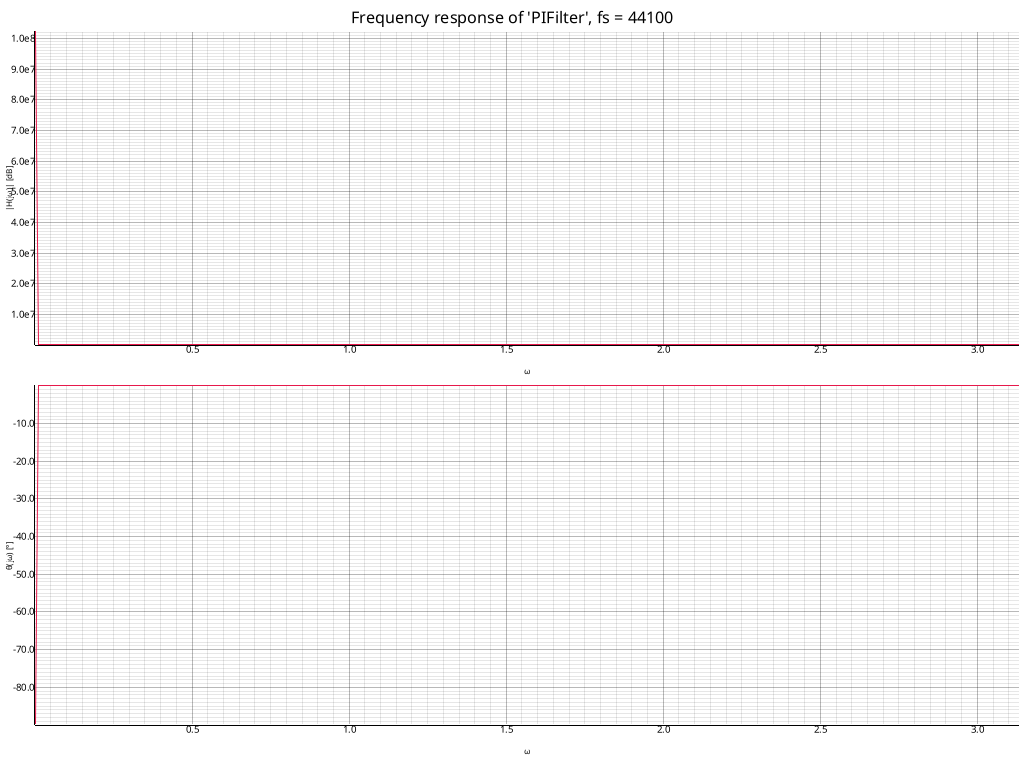
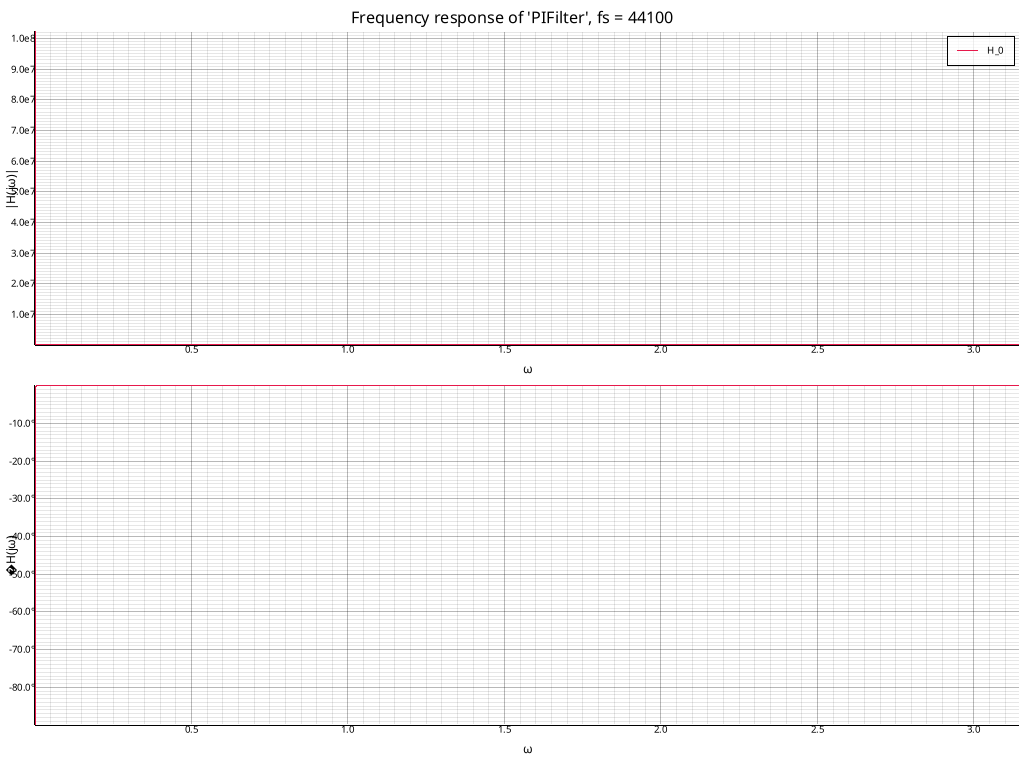
Fix second order butterworth

diff --git a/src/plot.rs b/src/plot.rs
@@ -8,8 +8,10 @@ use plotters::{chart::MeshStyle, coord::{ranged1d::{AsRangedCoord, DefaultFormat
 
 const PLOT_RES: (u32, u32) = (1024, 760);
 const PLOT_CAPTION_FONT: (&str, u32) = ("sans", 20);
+const AXIS_DESC_STYLE: (&str, u32) = ("sans", 15);
 const PLOT_MARGIN: u32 = 5;
 const PLOT_LABEL_AREA_SIZE: u32 = 30;
+const MAX_CURVE_COLOR_BRIGHTNESS: u16 = 225*2;
 
 fn isometric(mut pb: ProjectionMatrixBuilder) -> ProjectionMatrix
 {
@@ -93,6 +95,7 @@ pub fn plot_pz(
 pub fn plot_bode<'a, F, const M: usize>(
     plot_title: &str, plot_path: &'a str, legends: [&str; M],
     xy: impl IntoIterator<Item = (F, [Complex<F>; M])>,
+    decibel: bool
 ) -> Result<(), Box<dyn std::error::Error>>
 where
     F: Float + AddAssign + SubAssign + 'static,
@@ -103,12 +106,18 @@ where
             <Range<F> as AsRangedCoord>::Value
         )>
 {
-    fn db<F>(x: F) -> F
-    where
-        F: Float
-    {
-        F::from(20.0).unwrap()*(x).log10()
-    }
+    let twenty = F::from(20.0).unwrap();
+    let min_db = F::from(-40.0).unwrap();
+    let max_db = F::from(40.0).unwrap();
+    let min = F::from(1e1).unwrap().powf(min_db/twenty);
+    let max = F::from(1e1).unwrap().powf(max_db/twenty);
+    let db = |x: F| {
+        if x < min || x > max
+        {
+            return None
+        }
+        Some(twenty*x.log10())
+    };
 
     let pi = F::from(PI).unwrap();
     let tau = F::from(TAU).unwrap();
@@ -138,7 +147,7 @@ where
             (x, y)
         }).collect::<Vec<_>>();
 
-    let ([x_min, y_norm_min, y_arg_min], [x_max, y_norm_max, y_arg_max]) = xy.iter()
+    let ([x_min, mut y_norm_min, y_arg_min], [x_max, mut y_norm_max, y_arg_max]) = xy.iter()
         .map(|(x, y)| {
             let ([y_norm_min, y_arg_min], [y_norm_max, y_arg_max]) = y.iter()
                 .map(|&(y_norm, y_arg)| [y_norm, y_arg])
@@ -155,14 +164,19 @@ where
             core::array::from_fn(|i| a.1[i].max(b.1[i]))
         ))
         .unwrap();
+    if decibel
+    {
+        y_norm_min = db(y_norm_min).unwrap_or(min_db);
+        y_norm_max = db(y_norm_max).unwrap_or(max_db);
+    }
     
     let area = BitMapBackend::new(plot_path, PLOT_RES).into_drawing_area();
-    
     area.fill(&WHITE)?;
     
     let mut chart_norm = ChartBuilder::on(&area)
         .caption(plot_title, PLOT_CAPTION_FONT.into_font())
         .margin(PLOT_MARGIN)
+        .margin_right(PLOT_MARGIN)
         .margin_bottom(PLOT_RES.1/2 + PLOT_MARGIN)
         .x_label_area_size(PLOT_LABEL_AREA_SIZE)
         .y_label_area_size(PLOT_LABEL_AREA_SIZE)
@@ -181,42 +195,109 @@ where
         max_decimal: 2
     };
     let formatter = |x: &F| formatter.print(x.to_f64().unwrap());
+    let norm_formatter = |x: &F| if decibel
+    {
+        let s = formatter(x);
+        format!("{s} dB")
+    }
+    else
+    {
+        formatter(x)
+    };
+    let arg_formatter = |x: &F| {
+        let s = formatter(x);
+        format!("{s}°")
+    };
     
     chart_norm.configure_mesh()
         .x_desc("ω")
-        .y_desc("|H(jω)| [dB]")
+        .y_desc("|H(jω)|")
         .x_label_formatter(&formatter)
-        .y_label_formatter(&formatter)
-        .axis_desc_style(("sans-serif", 10).into_font())
+        .y_label_formatter(&norm_formatter)
+        .axis_desc_style(AXIS_DESC_STYLE.into_font())
         .set_all_tick_mark_size(0.1)
         .draw()?;
     
     chart_arg.configure_mesh()
         .x_desc("ω")
-        .y_desc("θ(jω) [°]")
+        .y_desc("∠H(jω)")
         .x_label_formatter(&formatter)
-        .y_label_formatter(&formatter)
-        .axis_desc_style(("sans-serif", 10).into_font())
+        .y_label_formatter(&arg_formatter)
+        .axis_desc_style(AXIS_DESC_STYLE.into_font())
         .set_all_tick_mark_size(0.1)
         .draw()?;
 
-    for i in 0..M
+    let mut c = 0;
+    for (i, legend) in legends.into_iter()
+        .enumerate()
     {
-        let color = Palette99::pick(i);
+        let mut color = Palette99::pick(c);
+        while {
+            let RGBAColor(r, g, b, _) = color.to_rgba();
+            r as u16 + g as u16 + b as u16 > MAX_CURVE_COLOR_BRIGHTNESS
+        }
+        {
+            c += 1;
+            color = Palette99::pick(c);
+        }
 
-        let xy_norm = xy.iter().map(|(x, y)| (*x, y[i].0));
-        let xy_arg = xy.iter().map(|(x, y)| (*x, y[i].1));
+        let mut first = true;
+        let mut series = |xy: Vec<(F, (F, F))>| {
+            let xy_norm = xy.iter().map(|(x, y)| (*x, y.0));
+            let xy_arg = xy.iter().map(|(x, y)| (*x, y.1));
 
-        chart_norm.draw_series(LineSeries::new(
-            xy_norm,
-            &color
-        ))?;
+            let s_norm = chart_norm.draw_series(LineSeries::new(
+                    xy_norm,
+                    &color
+                ))?;
 
-        chart_arg.draw_series(LineSeries::new(
-            xy_arg,
-            &color
-        ))?;
+            chart_arg.draw_series(LineSeries::new(
+                xy_arg,
+                &color
+            ))?;
+
+            if first
+            {
+                first = false;
+                let color = Palette99::pick(c);
+                s_norm.label(legend)
+                    .legend(move |(x, y)| PathElement::new(vec![(x, y), (x + 20, y)], &color));
+            }
+
+            Result::<_, DrawingAreaErrorKind<_>>::Ok(())
+        };
+
+        if decibel
+        {
+            let xy = xy.iter()
+                .map(|(x, y)| (*x, y[i]))
+                .map(|(x, (y_norm, y_arg))| db(y_norm).map(|y_norm| (x, (y_norm, y_arg))))
+                .collect::<Vec<_>>();
+            for xy in xy.split(|xy| xy.is_none())
+                .map(|xy| xy.into_iter()
+                    .filter_map(|&xy| xy)
+                    .collect::<Vec<_>>()
+                )
+            {
+                series(xy)?
+            }
+        }
+        else
+        {
+            let xy = xy.iter()
+                .map(|(x, y)| (*x, y[i]))
+                .collect();
+            series(xy)?
+        }
+
+        c += 1;
     }
+
+    chart_norm.configure_series_labels()
+        .border_style(BLACK)
+        .background_style(WHITE.mix(0.77))
+        .position(SeriesLabelPosition::UpperRight)
+        .draw()?;
         
     // To avoid the IO failure being ignored silently, we manually call the present function
     area.present().expect("Unable to write result to file");

diff --git a/src/lib.rs b/src/lib.rs
@@ -1160,7 +1160,7 @@ mod tests
         (filter_name, file_name_no_extension)
     }
 
-    pub fn plot_freq<F, T, const OUTPUTS: usize>(filter: &mut T, two_sided: bool) -> Result<(), Box<dyn std::error::Error>>
+    pub fn plot_freq<F, T, const OUTPUTS: usize>(filter: &mut T) -> Result<(), Box<dyn std::error::Error>>
     where
         F: Display + Debug,
         T: Rtf<F = F, Outputs<Complex<F>> = [Complex<F>; OUTPUTS]>,
@@ -1168,27 +1168,31 @@ mod tests
         Range<F>: AsRangedCoord<CoordDescType: ValueFormatter<<Range<F> as AsRangedCoord>::Value>, Value = F>,
         for<'b, 'a> &'b DynElement<'static, BitMapBackend<'a>, (F, F)>: PointCollection<'b, (<Range<F> as AsRangedCoord>::Value, <Range<F> as AsRangedCoord>::Value)>
     {
-        const N: usize = 256;
-        let omega: [F; N] = (if two_sided { -PI } else { f64::EPSILON }..PI)
-            .linspace_array()
+        const N: usize = 4096;
+        const DECIBEL: bool = false;
+        const TWO_SIDED: bool = false;
+
+        let omega = (if TWO_SIDED { -PI } else { f64::EPSILON }..PI)
+            .linspace(N)
             .map(|omega| f!(omega));
 
         let sampling_frequency = f!(44100.0);
 
-        let freq_response = omega.into_iter().map(|omega| filter.frequency_response(sampling_frequency, omega));
+        let data = omega.into_iter()
+            .map(|omega| (omega, filter.frequency_response(sampling_frequency, omega)));
 
         let (filter_name, file_name) = filter_name::<T>();
 
         let title = format!("Frequency response of '{filter_name}', fs = {sampling_frequency}");
         let file = format!("{PLOT_TARGET}/{file_name}.png");
-        let legends = core::array::from_fn(|i| format!("{i}"));
+        let legends = core::array::from_fn(|i| format!("H_{i}"));
 
         plot::plot_bode::<F, OUTPUTS>(
             &title,
             &file,
             legends.each_ref().map(Deref::deref),
-            omega.into_iter()
-                .zip(freq_response)
+            data,
+            DECIBEL
         )?;
         Ok(())
     }

diff --git a/src/filters/iir/second/second_order_butterworth_filter.rs b/src/filters/iir/second/second_order_butterworth_filter.rs
@@ -152,8 +152,6 @@ crate::def_rtf!(
             )
         }
     }
-    where
-        [(); <C as ButterworthFilterConf<2>>::OUTPUTS]:
 );
 
 #[cfg(test)]
@@ -169,6 +167,6 @@ mod test
     fn plot()
     {
         let mut filter = SecondOrderButterworthFilter::<All>::new(Omega {omega: 10e3*TAU});
-        crate::tests::plot_freq(&mut filter, false).unwrap();
+        crate::tests::plot_freq(&mut filter).unwrap();
     }
 }

diff --git a/src/filters/iir/third/third_order_sallen_key_filter.rs b/src/filters/iir/third/third_order_sallen_key_filter.rs
@@ -1020,6 +1020,6 @@ mod test
         //let mut filter = ThirdOrderSallenKeyFilter::<All>::new(RC2GSallenKey {r1: 15.0e3, c1: 2.7e-9, r2: 15.0e3, c2: 2.7e-9, g: 2.0});
         //let mut filter = ThirdOrderSallenKeyFilter::<All>::new(RC {r: 470.0, c: 47.0e-9});
 
-        crate::tests::plot_freq(&mut filter, false).unwrap();
+        crate::tests::plot_freq(&mut filter).unwrap();
     }
 }

diff --git a/src/filters/iir/second/second_order_sallen_key_filter.rs b/src/filters/iir/second/second_order_sallen_key_filter.rs
@@ -329,6 +329,6 @@ mod test
     fn plot()
     {
         let mut filter = SecondOrderSallenKeyFilter::<All>::new(RC2GSallenKey {r1: 15.0e3, c1: 2.7e-9, r2: 15.0e3, c2: 2.7e-9, g: 2.0});
-        crate::tests::plot_freq(&mut filter, false).unwrap();
+        crate::tests::plot_freq(&mut filter).unwrap();
     }
 }

diff --git a/src/filters/iir/second/second_order_elliptic_filter.rs b/src/filters/iir/second/second_order_elliptic_filter.rs
@@ -110,6 +110,6 @@ mod test
     fn plot()
     {
         let mut filter = SecondOrderEllipticFilter::<All>::new(OmegaEpsilonXi {omega: 10e3*TAU, epsilon: 0.5, xi: 1.5});
-        crate::tests::plot_freq(&mut filter, false).unwrap();
+        crate::tests::plot_freq(&mut filter).unwrap();
     }
 }

diff --git a/src/filters/iir/third/third_order_filter.rs b/src/filters/iir/third/third_order_filter.rs
@@ -293,6 +293,6 @@ mod test
     fn plot()
     {
         let mut filter = ThirdOrderFilter::<All>::new(Omega2Zeta {omega1: 1e3*TAU, omega2: 10e3*TAU, zeta: 0.05});
-        crate::tests::plot_freq(&mut filter, false).unwrap();
+        crate::tests::plot_freq(&mut filter).unwrap();
     }
 }

diff --git a/src/filters/iir/second/second_order_chebyshev1_filter.rs b/src/filters/iir/second/second_order_chebyshev1_filter.rs
@@ -108,6 +108,6 @@ mod test
     fn plot()
     {
         let mut filter = SecondOrderChebyshev1Filter::<All>::new(OmegaEpsilon {omega: 10e3*TAU, epsilon: 0.5});
-        crate::tests::plot_freq(&mut filter, false).unwrap();
+        crate::tests::plot_freq(&mut filter).unwrap();
     }
 }

diff --git a/src/filters/iir/second/second_order_chebyshev2_filter.rs b/src/filters/iir/second/second_order_chebyshev2_filter.rs
@@ -108,6 +108,6 @@ mod test
     fn plot()
     {
         let mut filter = SecondOrderChebyshev2Filter::<All>::new(OmegaEpsilon {omega: 10e3*TAU, epsilon: 0.5});
-        crate::tests::plot_freq(&mut filter, false).unwrap();
+        crate::tests::plot_freq(&mut filter).unwrap();
     }
 }

diff --git a/src/filters/iir/second/second_order_rc_filter.rs b/src/filters/iir/second/second_order_rc_filter.rs
@@ -297,6 +297,6 @@ mod test
     fn plot()
     {
         let mut filter = SecondOrderRCFilter::<All>::new(RC2 {r1: 22e3, c1: 4.7e-9, r2: 5.6e3, c2: 4.7e-9});
-        crate::tests::plot_freq(&mut filter, false).unwrap();
+        crate::tests::plot_freq(&mut filter).unwrap();
     }
 }

diff --git a/src/filters/iir/second/second_order_filter.rs b/src/filters/iir/second/second_order_filter.rs
@@ -171,6 +171,6 @@ mod test
     fn plot()
     {
         let mut filter = SecondOrderFilter::<All>::new(OmegaZeta {omega: 10e3*TAU, zeta: 0.05});
-        crate::tests::plot_freq(&mut filter, false).unwrap();
+        crate::tests::plot_freq(&mut filter).unwrap();
     }
 }

diff --git a/src/filters/iir/second/second_order_rlc_filter.rs b/src/filters/iir/second/second_order_rlc_filter.rs
@@ -299,6 +299,6 @@ mod test
     fn plot()
     {
         let mut filter = SecondOrderRLCFilter::<All>::new(RLC {r: 1e3, l: 10e-3, c: 33e-9});
-        crate::tests::plot_freq(&mut filter, false).unwrap();
+        crate::tests::plot_freq(&mut filter).unwrap();
     }
 }
